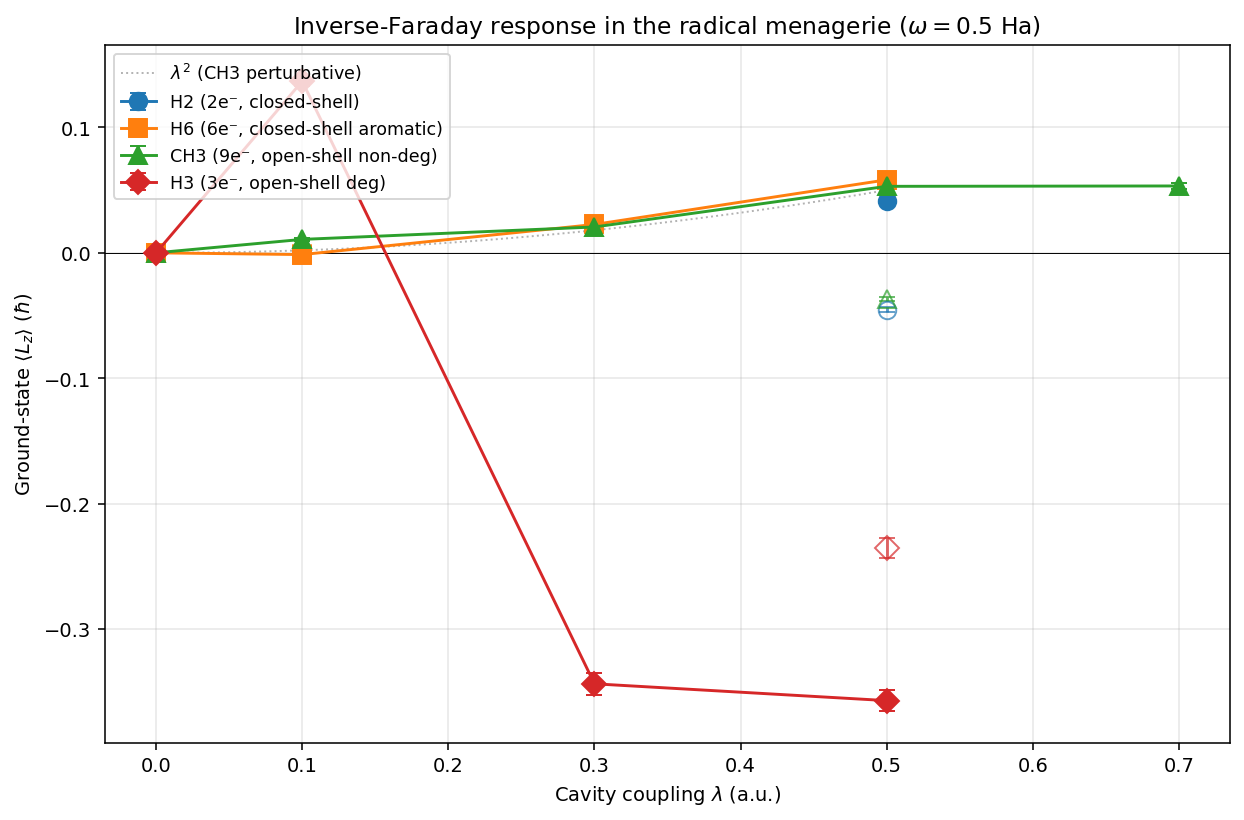
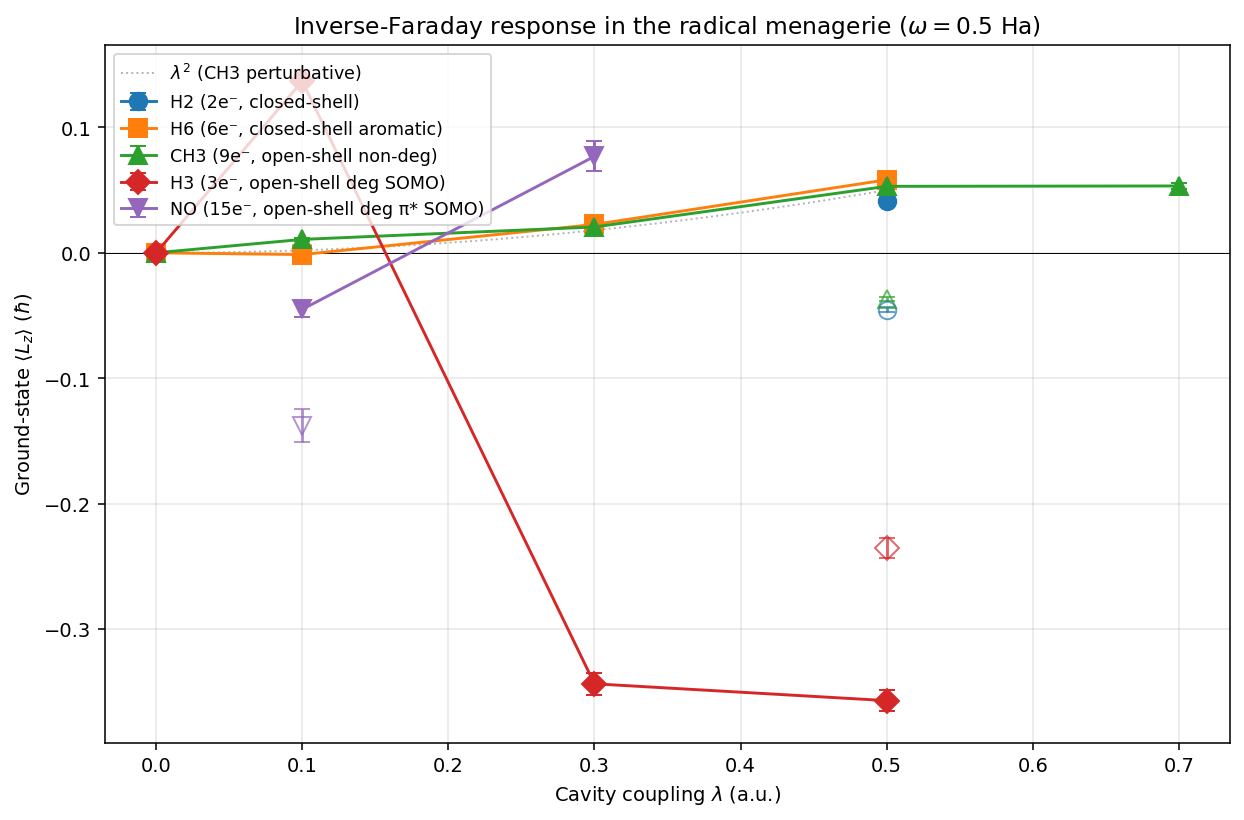
Phase 2s: NO data + updated master menagerie plot
NO confirms degenerate-SOMO mechanism: |<L_z>|(NO, λ=0.1, σ-) = 0.138,
virtually identical to H3 (+0.137) at same coupling. Two independent
systems with degenerate SOMOs (atomic-like H3 and real diatomic NO)
give 10x larger <L_z> than closed-shell or non-degenerate-SOMO systems.

NO vacuum E undertrained (12 Ha above HF) — 1000 iters insufficient
for 15-electron molecule. <L_z> magnitudes still informative because
orbital-symmetry sensitivity is weak to absolute-E convergence.

diff --git a/scripts/plot_menagerie.py b/scripts/plot_menagerie.py
@@ -61,7 +61,7 @@ DATA = {
     },
     "H3": {
         "n_elec": 3,
-        "category": "open-shell deg",
+        "category": "open-shell deg SOMO",
         "marker": "D",
         "color": "C3",
         "points": {
@@ -70,6 +70,19 @@ DATA = {
             (0.3,  +1): (-1.484,  -0.3436, 0.0087),   # basin-flipped
             (0.5,  +1): (-1.357,  -0.3570, 0.0082),   # basin-flipped
             (0.5,  -1): (-1.366,  -0.2355, 0.0081),
+        },
+    },
+    "NO": {
+        "n_elec": 15,
+        "category": "open-shell deg π* SOMO",
+        "marker": "v",
+        "color": "C4",
+        "points": {
+            # E values undertrained (vacuum gate ~12 Ha above HF); use
+            # |<L_z>| as the meaningful signal.
+            (0.1,  +1): (-121.28, -0.0451, 0.0064),  # basin-flipped
+            (0.3,  +1): (-122.19, +0.0769, 0.0120),
+            (0.1,  -1): (-111.83, -0.1378, 0.0131),  # |<L_z>|=0.14, matches H3!
         },
     },
 }
